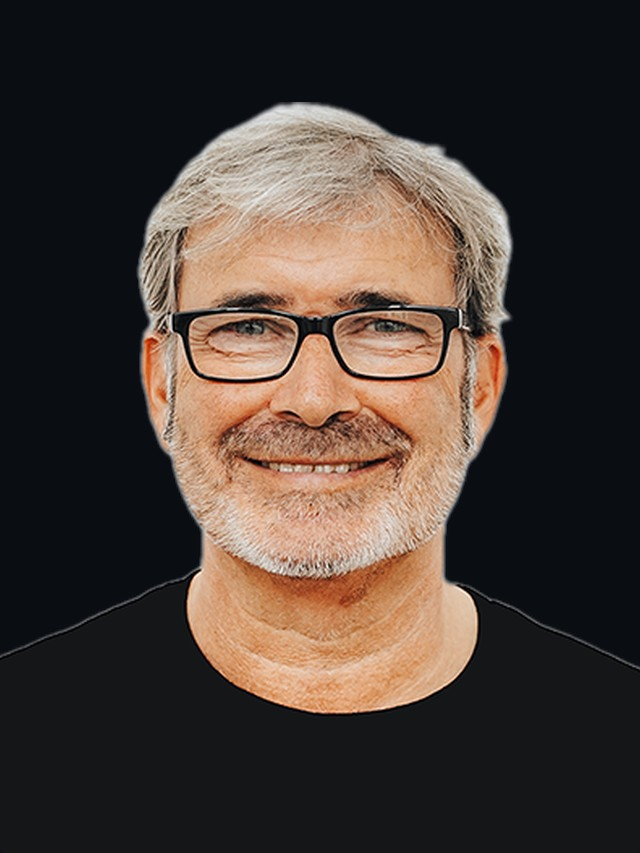
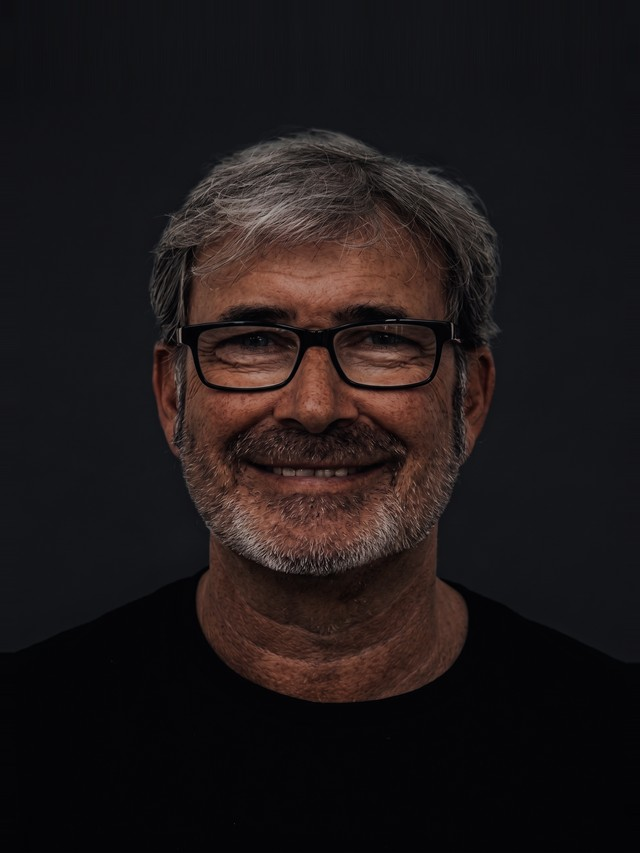
Donauries-Pitch: Kay per Magnific an Studiolook angeglichen, Valentin und Marion im Team, Karte größer

diff --git a/src/slides/donauries-social/slides.tsx b/src/slides/donauries-social/slides.tsx
@@ -52,8 +52,8 @@ export const AgendaSlide: React.FC = () => (
 
 export const RegionSlide: React.FC = () => (
   <Frame title="Die Region" section="01 Ausgangslage">
-    <div style={{ display: 'grid', gridTemplateColumns: '1fr 520px', gap: 64, alignItems: 'center', marginTop: -24 }}>
-      <img src="/donauries/karte.jpg" alt="Karte Landkreis Donau-Ries" style={{ width: '100%', height: 780, objectFit: 'contain', objectPosition: 'left top' }} />
+    <div style={{ display: 'grid', gridTemplateColumns: '1fr 420px', gap: 48, alignItems: 'center', marginTop: -32 }}>
+      <img src="/donauries/karte-crop.jpg" alt="Karte Landkreis Donau-Ries" style={{ width: '100%', height: 820, objectFit: 'contain', objectPosition: 'left center' }} />
       <div style={{ display: 'flex', flexDirection: 'column', gap: 56 }}>
         {regionFacts.map(([n, l]) => (
           <div key={l} style={{ display: 'flex', flexDirection: 'column', gap: 8 }}>
@@ -294,8 +294,8 @@ export const TeamSlide: React.FC = () => {
         )}
         {team.map((t) => (
           <div key={t.n} style={{ gridColumn: `span ${t.img.length}`, paddingTop: 4, display: 'flex', flexDirection: 'column', gap: 8 }}>
-            <span style={{ fontSize: 34, fontWeight: 700, lineHeight: 1.1 }}>{t.n}</span>
-            <span style={{ fontSize: 21, lineHeight: 1.3, whiteSpace: 'nowrap' }}>{t.r}</span>
+            <span style={{ fontSize: 28, fontWeight: 700, lineHeight: 1.1 }}>{t.n}</span>
+            <span style={{ fontSize: 18, lineHeight: 1.3 }}>{t.r}</span>
             {t.d && <span style={{ fontSize: 22, color: C.muted }}>{t.d}</span>}
           </div>
         ))}

diff --git a/src/slides/donauries-social/data.ts b/src/slides/donauries-social/data.ts
@@ -152,6 +152,8 @@ export const team: { n: string; r: string; d: string; img: string[] }[] = [
   { n: 'Annalena', r: 'Social Media Managerin', d: '', img: ['/team/annalena-geier.jpg'] },
   { n: 'Kay', r: 'Redakteur', d: '', img: ['/team/kai-mueller.jpg'] },
   { n: 'Cedric', r: 'Video & Fotografie', d: '', img: ['/team/cedric-weber.jpg'] },
+  { n: 'Valentin', r: 'Mediengestalter & Analytics', d: '', img: ['/team/valentin-puma.jpg'] },
+  { n: 'Marion', r: 'Webdesignerin', d: '', img: ['/team/marion-diepold.jpg'] },
 ];
 
 // Main reference with quote (placeholder rendered red until the quote arrives), others small below
